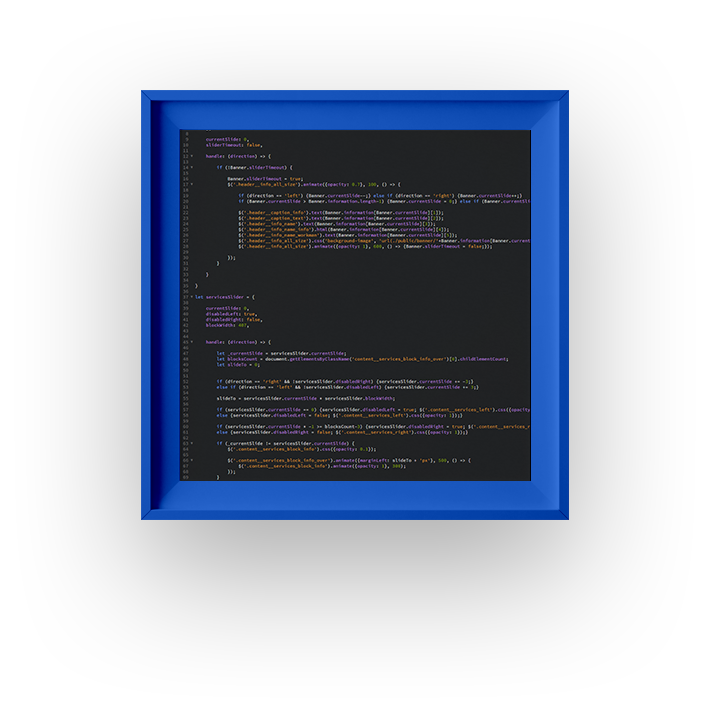
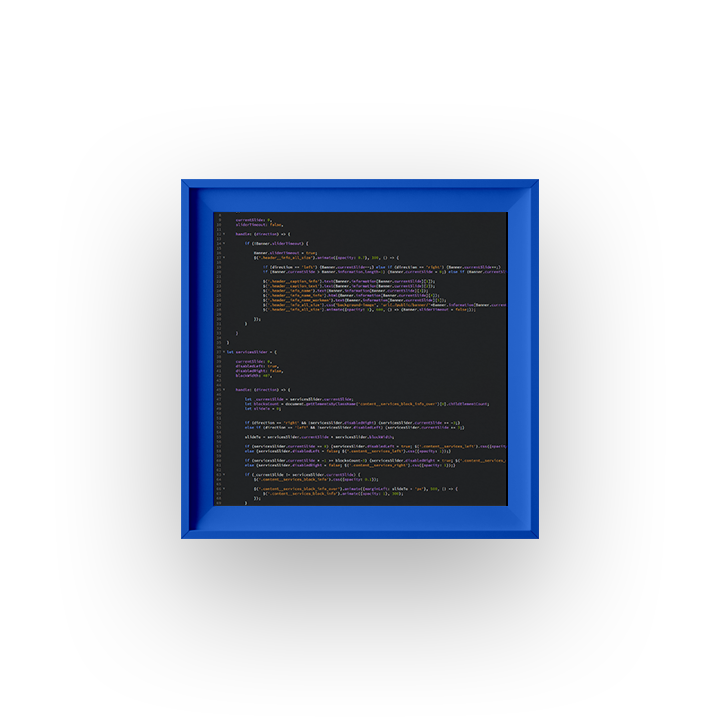
New slider animation

Changed region(s): [[0.1857, 0.1234, 0.8354, 0.7714]]

diff --git a/script.js b/script.js
@@ -34,7 +34,7 @@ function Slider() {
 	let textBox = document.getElementById("text-box")
 	let leftButton = document.querySelector("#left-arrow")
 	let rightButton = document.querySelector("#right-arrow")
-	let current = 0
+	let currentNum = 0
 
 	leftButton.onclick = _ => {
 		this.turnLeft()
@@ -45,11 +45,11 @@ function Slider() {
 	}
 
 	this.turnLeft = _ => {
-		this.set(current != 0 ? current - 1 : 2)
+		this.set(currentNum != 0 ? currentNum - 1 : 2)
 	}
 
 	this.turnRight = _ => {
-		this.set(current != 2 ? current + 1 : 0)
+		this.set(currentNum != 2 ? currentNum + 1 : 0)
 	}
 
 
@@ -57,26 +57,32 @@ function Slider() {
 	text.innerHTML = slides[0].text
 	header.innerHTML = slides[0].header
 
-	this.set = num => {
-		current = num
-		image.classList.add("rotate")
+	this.set = newNum => {
+		if (newNum == currentNum) { return }
+		if (newNum > currentNum) {
+			image.classList.add("slide-right")
+		} else {
+			image.classList.add("slide-left")
+		}
+		
 		textBox.classList.add("hidden")
 		
 		setTimeout(_ => {
-			image.src = slides[num].img
-		}, 300)
+			image.src = slides[newNum].img
+		}, 500)
 
 		setTimeout(_ => {
-			text.innerHTML = slides[num].text
-			header.innerHTML = slides[num].header
+			text.innerHTML = slides[newNum].text
+			header.innerHTML = slides[newNum].header
 			textBox.classList.remove("hidden")
 		}, 600)
 
 		setTimeout(_ => {
-			image.classList.remove("rotate")
-		}, 1200)
+			image.classList.remove("slide-left")
+			image.classList.remove("slide-right")
+		}, 1000)
 
-		switch(num) {
+		switch(newNum) {
 			case 0:
 				this._setFirstSlide()
 				break
@@ -88,7 +94,8 @@ function Slider() {
 				break
 		}
 
-		bg.style.color = slides[num].color
+		bg.style.color = slides[newNum].color
+		currentNum = newNum
 	}
 
 	let numbers = document.getElementsByClassName("number")

diff --git a/style.css b/style.css
@@ -171,23 +171,99 @@ body {
 }
 
 /* Container for main image */
-#image-box {
-	padding-right: 15%;
+#image-box {	
 	z-index: 100;
 	margin: auto;
-	height: 45%;
+	margin-right: 15%;
+	height: 60%;
 	width: auto;	
 }
 
 #image-box>img {
 	height: 100%;
+
 }
 
-#image-box>img.rotate {
-	animation: rotate 1.2s ease;
+#image-box>img.slide-left {
+	animation: slideLeft 1s ease;
 }
 
-@keyframes rotate {
+#image-box>img.slide-right {
+	animation: slideRight 1s ease;
+}
+
+@keyframes slideLeft {
+	0% {
+		transform: translateX(0px);
+		opacity: 1;
+		filter: blur(0px);
+	}
+
+	50% {
+		transform: translateX(-100px);
+		opacity: 0;
+		filter: blur(30px);
+	}
+
+	51% {
+		transform: translateX(100px);
+	}
+
+	100% {
+		transform: translateX(0px);
+		opacity: 1;
+		filter: blur(0px);
+	}
+}
+
+/*
+@keyframes rotateLeft {
+	0% {
+		transform: rotate(0deg);
+		filter: blur(0px);
+	}
+
+	33% {
+		 filter: blur(30px);
+	}
+
+	66% {
+		transform: rotate(-405deg);
+		filter: blur(0px);
+	}
+
+	100% {		
+		transform: rotate(-360deg);
+	}
+}
+*/
+
+@keyframes slideRight {
+	0% {
+		transform: translateX(0px);
+		opacity: 1;
+		filter: blur(0px);
+	}
+
+	50% {
+		transform: translateX(100px);
+		opacity: 0;
+		filter: blur(30px);
+	}
+
+	51% {
+		transform: translateX(-100px);
+	}
+
+	100% {
+		transform: translateX(0px);
+		opacity: 1;
+		filter: blur(0px);
+	}
+}
+
+/*
+@keyframes rotateRight {
 	0% {
 		transform: rotate(0deg);
 	}
@@ -200,6 +276,7 @@ body {
 		transform: rotate(360deg);
 	}
 }
+*/
 
 @media screen and (max-width: 768px) {
 	#image-box {
@@ -295,6 +372,7 @@ body {
 	margin: auto 0 auto 0;
 	text-align: center;
 	font-size: 2em;
+	cursor: pointer;
 }
 
 @media screen and (max-width: 768px) {
